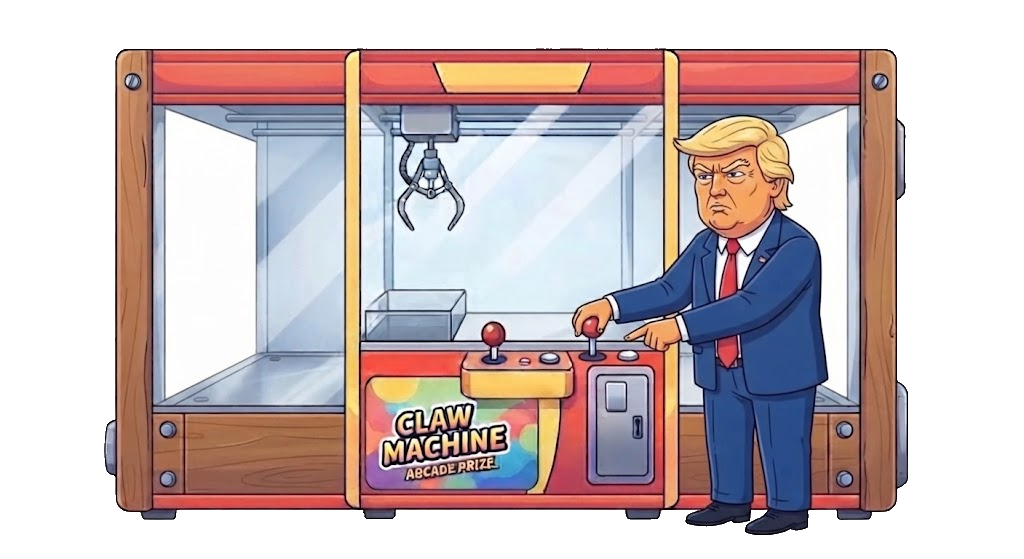
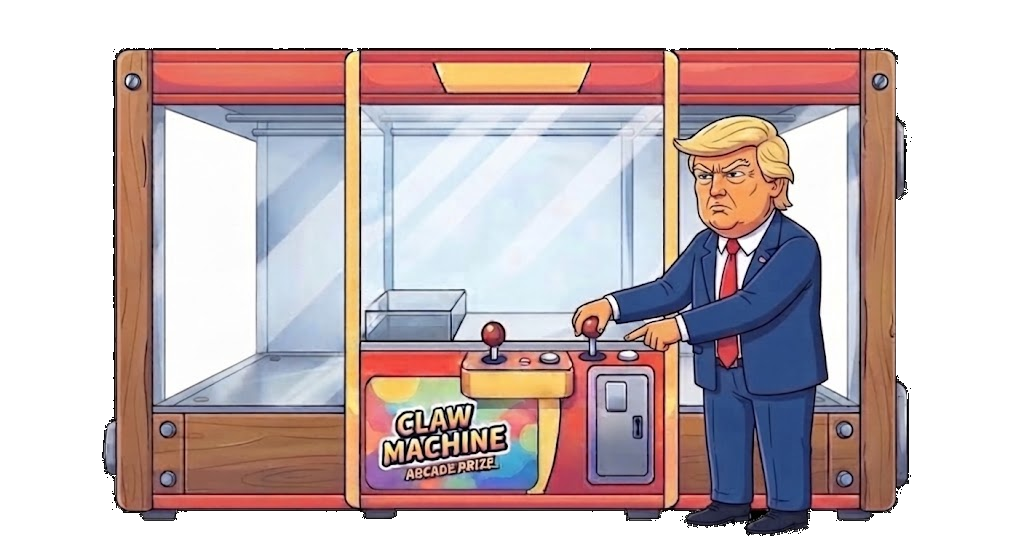
Atualização do jogo: remoção da linha amarela e retângulos dourados

diff --git a/claw-machine/index.html b/claw-machine/index.html
@@ -578,8 +578,8 @@
             const BASE_CONFIG = {
                 machineMargin: 20,
                 clawSpeed: 3.5,
-                clawWidth: 80,
-                clawHeight: 100,
+                clawWidth: 160,
+                clawHeight: 140,
                 itemSize: 75,
                 grabY: 220,
                 moveSpeed: 5,
@@ -590,14 +590,14 @@
 
             // ===== POSIÇÃO FIXA DA GARRA EM RELAÇÃO À IMAGEM =====
             const CLAW_START_POSITION = {
-                x: 500,  // Posição X na imagem (meio)
-                y: 60    // Posição Y na imagem (mais baixa)
+                x: 500,
+                y: 60
             };
 
-            // ===== POSIÇÃO DO TOPO DA CORRENTE (em relação à imagem) =====
+            // ===== POSIÇÃO DO TOPO DA CORRENTE =====
             const CHAIN_TOP_POSITION = {
-                x: 500,  // Mesmo X da garra
-                y: 50    // Topo do vidro da máquina
+                x: 500,
+                y: 50
             };
 
             // ===== POSIÇÕES DOS PERSONAGENS =====
@@ -628,7 +628,6 @@
 
             let CONFIG = { ...BASE_CONFIG };
 
-            // Posições calculadas
             let clawStartX = 0;
             let clawStartY = 0;
             let chainTopX = 0;
@@ -660,19 +659,14 @@
                     scaleY = machineDrawHeight / 650;
                 }
                 
-                // Recalcula a posição inicial da garra baseada na imagem
                 clawStartX = machineOffsetX + (CLAW_START_POSITION.x * scaleX);
                 clawStartY = machineOffsetY + (CLAW_START_POSITION.y * scaleY);
-                
-                // Recalcula o topo da corrente
                 chainTopX = machineOffsetX + (CHAIN_TOP_POSITION.x * scaleX);
                 chainTopY = machineOffsetY + (CHAIN_TOP_POSITION.y * scaleY);
                 
                 CONFIG.minX = CONFIG.machineMargin + 60;
                 CONFIG.maxX = W - CONFIG.machineMargin - 60;
                 console.log(`📐 Dimensões atualizadas: ${W}x${H}`);
-                console.log(`📍 Garra inicia em: (${Math.round(clawStartX)}, ${Math.round(clawStartY)})`);
-                console.log(`📍 Topo da corrente em: (${Math.round(chainTopX)}, ${Math.round(chainTopY)})`);
             }
 
             function resize() {
@@ -842,7 +836,6 @@
 
                 gameInitialized = true;
                 console.log(`📦 ${items.length} alvos posicionados`);
-                console.log(`📍 Garra iniciando em: (${Math.round(clawX)}, ${Math.round(clawY)})`);
                 updateUI();
                 gameLoop();
             }
@@ -854,17 +847,14 @@
                 const endX = clawX;
                 const endY = clawY + 10;
                 
-                // Calcula a distância entre os pontos
                 const dx = endX - startX;
                 const dy = endY - startY;
                 const distance = Math.sqrt(dx * dx + dy * dy);
                 const angle = Math.atan2(dy, dx);
                 
-                // Número de elos baseado na distância
                 const linkSize = 10 * Math.min(scaleX, scaleY);
                 const numLinks = Math.max(3, Math.floor(distance / linkSize));
                 
-                // Desenha cada elo da corrente
                 for (let i = 0; i < numLinks; i++) {
                     const t = i / numLinks;
                     const nextT = (i + 0.5) / numLinks;
@@ -876,30 +866,24 @@
                     
                     const size = linkSize * (0.8 + 0.2 * Math.sin(i * 1.5));
                     
-                    // Desenha o elo (oval)
                     ctx.save();
                     ctx.translate(x, y);
                     ctx.rotate(angle);
                     
-                    // Sombra do elo
                     ctx.shadowColor = 'rgba(0,0,0,0.3)';
                     ctx.shadowBlur = 5;
                     
-                    // Elo (dois retângulos arredondados interligados)
                     const halfSize = size / 2;
                     const thickness = size * 0.25;
                     
-                    // Elo principal
                     ctx.fillStyle = i % 2 === 0 ? '#bdc3c7' : '#95a5a6';
                     ctx.shadowColor = 'rgba(0,0,0,0.2)';
                     ctx.shadowBlur = 3;
                     
-                    // Desenha o formato do elo (retângulo com bordas arredondadas)
                     ctx.beginPath();
                     ctx.roundRect(-halfSize, -thickness/2, size, thickness, thickness/2);
                     ctx.fill();
                     
-                    // Brilho no elo
                     ctx.shadowBlur = 0;
                     ctx.fillStyle = 'rgba(255,255,255,0.15)';
                     ctx.beginPath();
@@ -908,7 +892,6 @@
                     
                     ctx.restore();
                     
-                    // Pequena conexão entre elos
                     if (i < numLinks - 1) {
                         const midX = (x + nextX) / 2;
                         const midY = (y + nextY) / 2;
@@ -923,7 +906,6 @@
                 }
             }
 
-            // Função auxiliar para roundRect (se não existir no navegador)
             if (!CanvasRenderingContext2D.prototype.roundRect) {
                 CanvasRenderingContext2D.prototype.roundRect = function(x, y, w, h, r) {
                     if (r > w/2) r = w/2;
@@ -942,7 +924,7 @@
                 };
             }
 
-            // ===== DESENHAR MÁQUINA =====
+            // ===== DESENHAR MÁQUINA (SEM LINHA AMARELA) =====
             function drawMachine() {
                 const m = CONFIG.machineMargin;
                 const machineImg = images[currentMachineImage];
@@ -973,18 +955,9 @@
                     ctx.strokeRect(m, m, W - m * 2, H - m * 2);
                     ctx.shadowBlur = 0;
                 }
-                
-                ctx.fillStyle = 'rgba(255, 255, 0, 0.15)';
-                const guideY = machineOffsetY + (305 * scaleY);
-                ctx.fillRect(CONFIG.machineMargin + 30, guideY - 3, W - CONFIG.machineMargin * 2 - 60, 6);
-                ctx.fillStyle = 'rgba(255, 255, 0, 0.4)';
-                ctx.font = 'bold 12px Arial';
-                ctx.textAlign = 'center';
-                ctx.textBaseline = 'bottom';
-                ctx.fillText('⬅ ALVOS AQUI ➡', W/2, guideY - 8);
             }
 
-            // ===== DESENHAR ALVOS =====
+            // ===== DESENHAR ALVOS (SEM RETÂNGULOS) =====
             function drawItems() {
                 items.forEach(item => {
                     if (item.grabbed) return;
@@ -998,12 +971,13 @@
                         ctx.drawImage(img, item.x - size/2, item.y - size/2, size, size);
                         ctx.shadowBlur = 0;
                         
-                        ctx.strokeStyle = '#ffd700';
-                        ctx.lineWidth = Math.max(2, size * 0.04);
-                        ctx.shadowColor = 'rgba(255, 215, 0, 0.4)';
-                        ctx.shadowBlur = 20;
-                        ctx.strokeRect(item.x - size/2, item.y - size/2, size, size);
-                        ctx.shadowBlur = 0;
+                        // ⬅ RETÂNGULOS REMOVIDOS
+                        // ctx.strokeStyle = '#ffd700';
+                        // ctx.lineWidth = Math.max(2, size * 0.04);
+                        // ctx.shadowColor = 'rgba(255, 215, 0, 0.4)';
+                        // ctx.shadowBlur = 20;
+                        // ctx.strokeRect(item.x - size/2, item.y - size/2, size, size);
+                        // ctx.shadowBlur = 0;
                         
                         ctx.fillStyle = 'rgba(0,0,0,0.95)';
                         ctx.font = `bold ${Math.max(10, size * 0.2)}px Arial`;
@@ -1051,7 +1025,6 @@
                 const x = clawX - cw/2;
                 const y = clawY;
 
-                // Desenha a corrente primeiro (atrás da garra)
                 drawChain();
 
                 ctx.shadowBlur = 0;
@@ -1326,16 +1299,14 @@
                 btnDown.addEventListener('touchstart', (e) => { e.preventDefault(); captureClaw(); });
 
                 console.log('🎮 Controles configurados!');
-                console.log('📋 ← → = Mover');
-                console.log('📋 ESPAÇO ou ↓ = Pegar');
-                console.log('📍 Corrente começa no topo do vidro da máquina!');
-                console.log('⛓ Efeito de corrente com elos!');
+                console.log('✅ Linha amarela removida!');
+                console.log('✅ Retângulos dourados removidos!');
             }
 
             // ===== INICIAR =====
-            console.log('🚀 Iniciando Claw Machine - CORRENTE!');
-            console.log('📍 Corrente começa no topo do vidro da máquina');
-            console.log('⛓ Efeito de corrente com elos');
+            console.log('🚀 Iniciando Claw Machine - SEM LINHA E SEM RETÂNGULOS!');
+            console.log('✅ Linha amarela removida');
+            console.log('✅ Retângulos dourados removidos');
             
             updateDimensions();
             loadImages();
